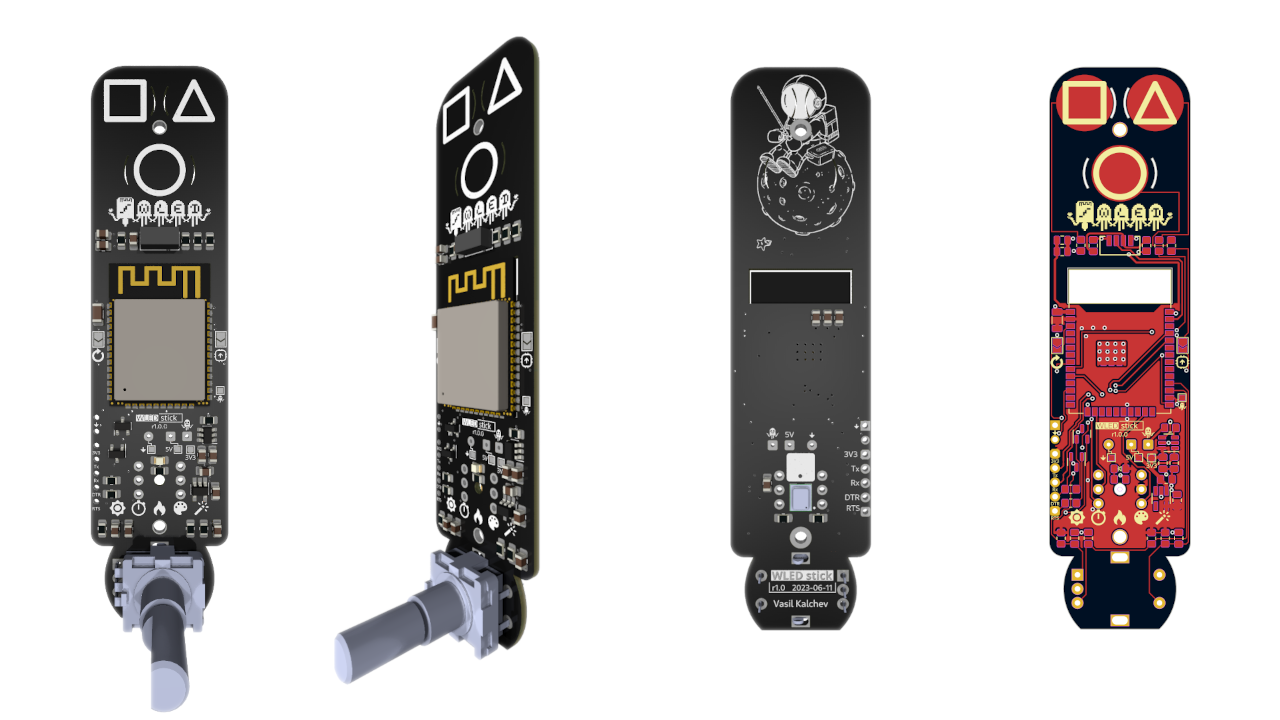
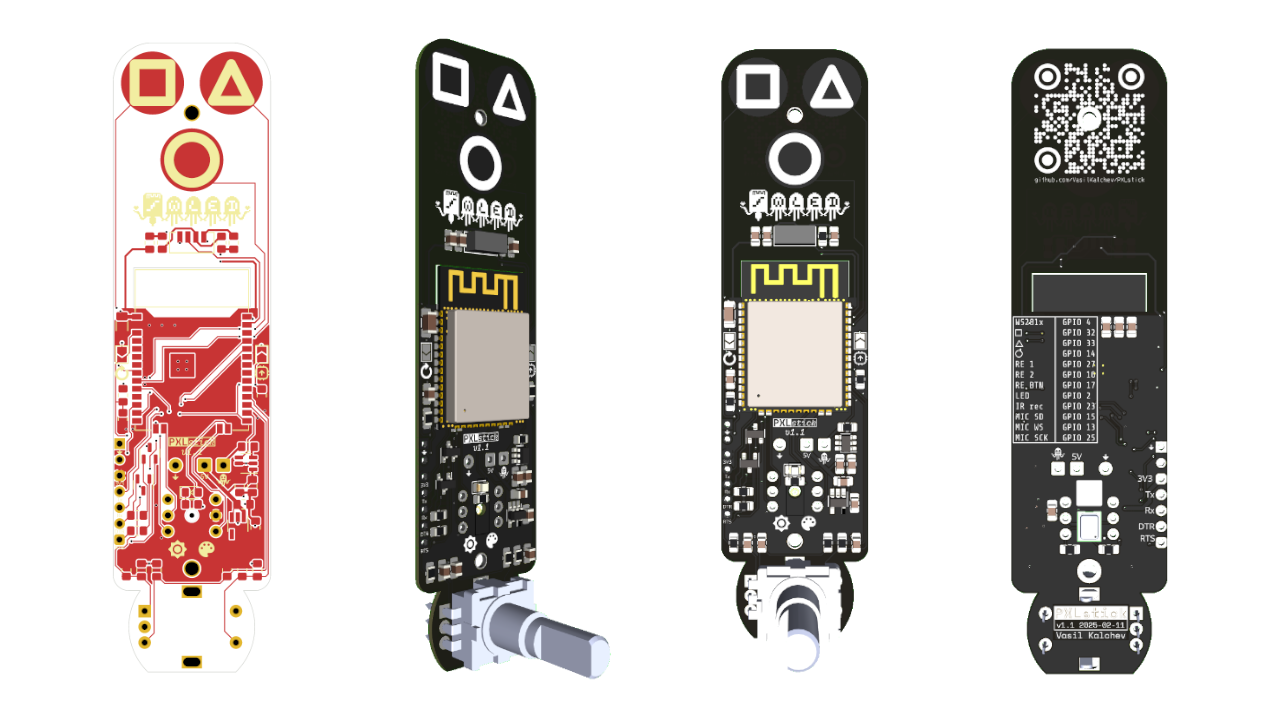
Export and process new images of the board

diff --git a/doc/assets/readme.md b/doc/assets/readme.md
@@ -1,13 +1,16 @@
 Images used in repository's readmes.
 
 
+<!--
 
 <details>
 <summary>assets checklist</summary>
 
- - [ ] export images of the 3D render of the board
- - [ ] make a head image for use in [/readme.md](/readme.md)
+ - [x] export images of the 3D render of the board
+ - [x] make a head image for use in [/readme.md](/readme.md)
 
- - [ ] comment out this section
+ - [x] comment out this section
 
 </details>
+
+-->
